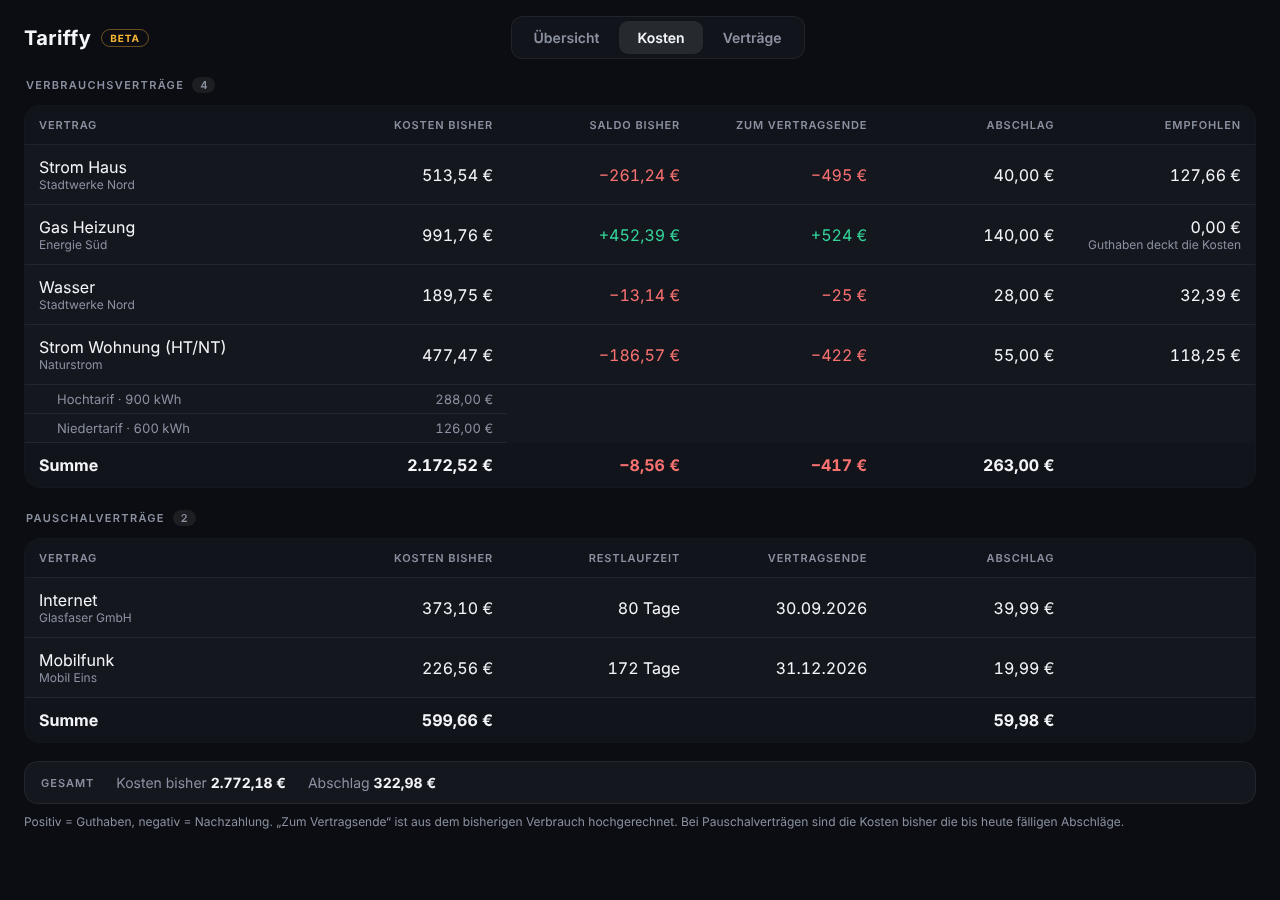
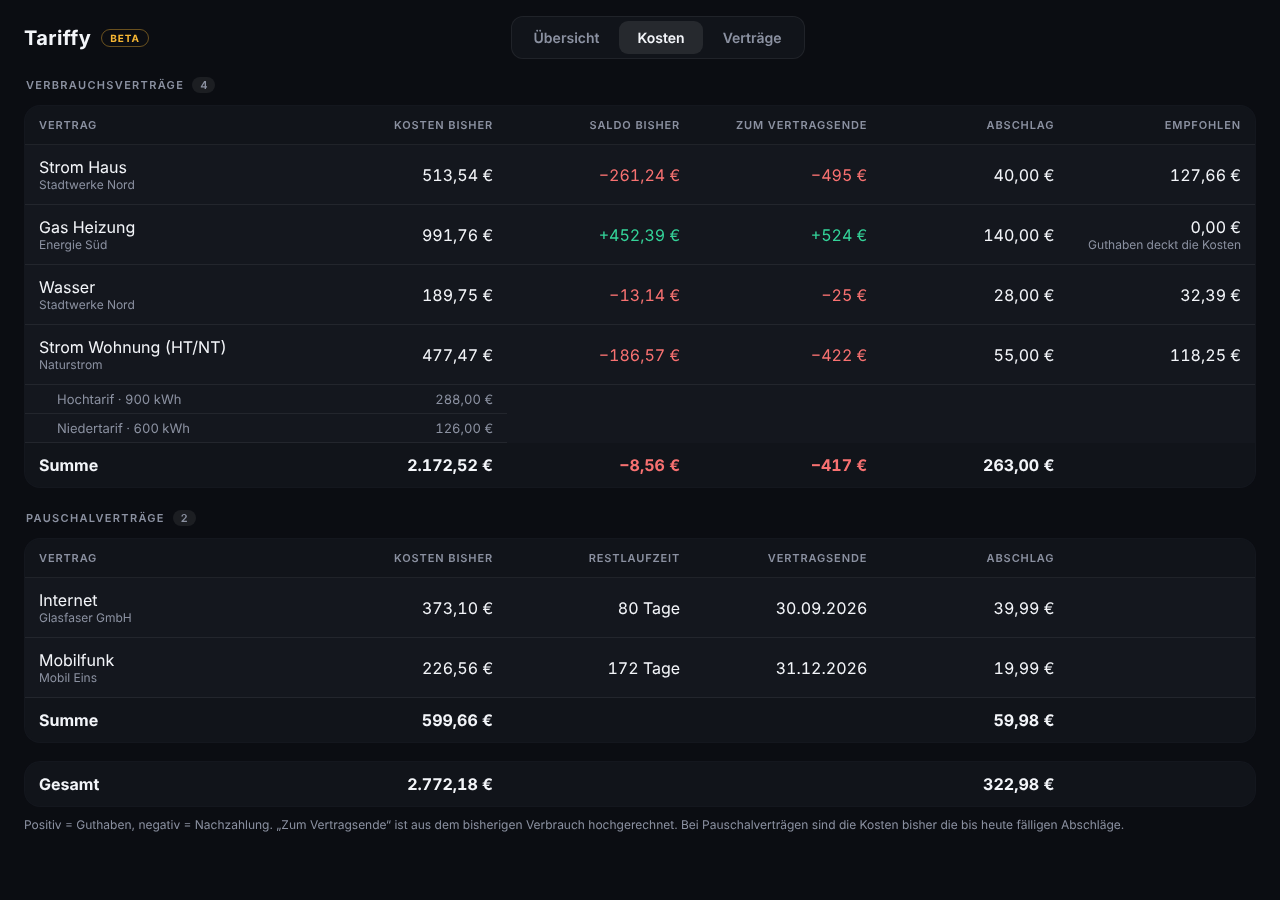
Panel: overall total as a row of the cost table grid
Claude-Session: https://claude.ai/code/session_011wNPKqgRVqpMfNb2Np7XaH

Changed region(s): [[0.0312, 0.84, 0.875, 0.9333], [0.1562, 0.84, 0.2188, 0.8711]]

diff --git a/custom_components/tariffy/frontend/tariffy-panel.js b/custom_components/tariffy/frontend/tariffy-panel.js
@@ -168,6 +168,8 @@ const I18N = {
 const SVG_NS = "http://www.w3.org/2000/svg";
 const TABS = ["overview", "costs", "contracts"];
 // contracts that are billed by consumption; everything else (internet, mobile, ...) is a flat rate
+// column widths shared by the cost tables, so that their columns line up
+const GRID = ["24%", "15.2%", "15.2%", "15.2%", "15.2%", "15.2%"];
 const METERED = new Set(["electricity", "electricity_ht_nt", "gas", "water"]);
 const TAB_KEY = "tariffy-panel-tab";
 
@@ -252,9 +254,9 @@ const STYLE = `
 .group:first-of-type { margin-top: 0; }
 .group-title { display: flex; align-items: center; gap: 8px; margin: 0 0 12px 2px; font-size: 11px; font-weight: 600;
   letter-spacing: .12em; text-transform: uppercase; color: var(--muted); }
-.grand { display: flex; flex-wrap: wrap; align-items: center; gap: 6px 22px; margin-top: 18px; padding: 12px 16px; border-radius: 14px;
-  background: var(--panel); border: 1px solid var(--line); font-size: 14px; color: var(--muted); }
-.grand b { color: var(--text); font-variant-numeric: tabular-nums; }
+/* the overall total is a row of its own in the same column grid as the tables above */
+.grand-table { margin-top: 18px; table-layout: fixed; }
+.grand-table td { font-weight: 700; border-bottom: 0; background: var(--panel2); }
 .group-title .count { font-size: 11px; letter-spacing: 0; padding: 1px 8px; border-radius: 999px; background: rgba(255,255,255,.07); }
 .grid { display: grid; grid-template-columns: repeat(auto-fill, minmax(360px, 1fr)); gap: 16px; align-items: stretch; }
 .grid.flat { grid-template-columns: repeat(auto-fill, minmax(300px, 1fr)); }
@@ -425,7 +427,7 @@ details[open] summary .caret svg { transform: rotate(90deg); }
   .big { font-size: 28px; }
   .ring, .ring svg { width: 76px; height: 76px; }
   table, thead, tbody, tr, td { display: block; }
-  colgroup { display: none; }
+  colgroup, td:empty { display: none; }
   thead { display: none; }
   table { background: transparent; border: 0; border-radius: 0; }
   tr { background: var(--panel); border: 1px solid var(--line); border-radius: 14px; margin-bottom: 10px; padding: 8px 14px; }
@@ -1504,7 +1506,7 @@ class TariffyPanel extends HTMLElement {
       h("h3", { class: "group-title" }, h("span", { text: this._t(key) }), h("span", { class: "count", text: String(list.length) })),
       h("table", {},
         // both tables share one column grid (the 6th column is empty in the flat-rate table)
-        h("colgroup", {}, ["24%", "15.2%", "15.2%", "15.2%", "15.2%", "15.2%"].map((width) => h("col", { style: `width:${width}` }))),
+        h("colgroup", {}, GRID.map((width) => h("col", { style: `width:${width}` }))),
         h("thead", {}, h("tr", {}, heads.map((label) => h("th", { text: label })))),
         h("tbody", {}, rows))) : null);
 
@@ -1517,10 +1519,14 @@ class TariffyPanel extends HTMLElement {
       group("groupFlat", flat, [
         this._t("colContract"), this._t("colCost"), this._t("remaining"), this._t("contractEnd"), this._t("colInstalment"), "",
       ], flatRows),
-      h("div", { class: "grand" },
-        h("span", { class: "label", text: this._t("grandTotal") }),
-        h("span", {}, `${this._t("colCost")} `, h("b", { text: money(sumCost(contracts)) })),
-        h("span", {}, `${this._t("colInstalment")} `, h("b", { text: money(sum(contracts, "abschlag")) }))),
+      h("table", { class: "grand-table" },
+        h("colgroup", {}, GRID.map((width) => h("col", { style: `width:${width}` }))),
+        h("tbody", {}, h("tr", { class: "grandrow" },
+          h("td", { text: this._t("grandTotal") }),
+          cell(this._t("colCost"), money(sumCost(contracts))),
+          h("td", { text: "" }), h("td", { text: "" }),
+          cell(this._t("colInstalment"), money(sum(contracts, "abschlag"))),
+          h("td", { text: "" })))),
       h("div", { class: "hint", text: this._t("costsHint") })
     );
   }

diff --git a/custom_components/tariffy/CHANGELOG.md b/custom_components/tariffy/CHANGELOG.md
@@ -14,7 +14,7 @@ Zweiter Release Candidate zum Testen des Seitenleisten-Panels. Das Panel nutzt d
 ### Changed
 
 - Die Kopfzeile der Übersicht hat vier Kacheln mit Details: die Abschläge pro Monat (mit Jahreswert und einem Balken, der Verbrauchs- und Pauschalverträge aufteilt), die Kosten bisher (mit den bis heute fälligen Abschlägen und dem Saldo), die Prognose zum Vertragsende (je Vertrag, die schlechteste zuerst) und die nächsten drei Termine.
-- Die beiden Tabellen der Ansicht "Kosten" haben dasselbe Spaltenraster: "Kosten bisher" und "Abschlag" stehen untereinander (Pauschal-Tabelle: Kosten bisher, Restlaufzeit, Vertragsende, Abschlag).
+- Die beiden Tabellen der Ansicht "Kosten" und die Gesamtzeile haben dasselbe Spaltenraster: "Kosten bisher" und "Abschlag" stehen untereinander, auch in der Gesamtzeile (Pauschal-Tabelle: Kosten bisher, Restlaufzeit, Vertragsende, Abschlag).
 - Das Panel nutzt die ganze Breite des Fensters, statt bei 1280 px abgeschnitten und zentriert zu sein (die Grenze liegt jetzt bei 2400 px, nur für Ultrabreit-Monitore). Die Übersicht behält drei Verträge pro Zeile und bekommt bei einem sehr breiten Fenster (ab 1750 px) eine vierte Spalte.
 
 ## [1.27.0-rc.1] - 2026-11-06

diff --git a/CHANGELOG.md b/CHANGELOG.md
@@ -14,7 +14,7 @@ Second release candidate for testing the sidebar panel. The panel uses the whole
 ### Changed
 
 - The header of the overview has four tiles with details: the instalments per month (with the yearly figure and a bar that splits metered and flat-rate contracts), the cost so far (with the instalments due until today and the balance), the forecast at contract end (per contract, worst first) and the next three dates.
-- The two tables of the "Costs" view share one column grid: "cost so far" and "instalment" sit exactly below each other (flat-rate table: cost so far, remaining term, contract end, instalment).
+- The two tables of the "Costs" view and the overall total share one column grid: "cost so far" and "instalment" sit exactly below each other, also in the overall total row (flat-rate table: cost so far, remaining term, contract end, instalment).
 - The panel uses the whole width of the window instead of being capped at 1280 px and centred (the cap is now 2400 px, only for ultra-wide monitors). The overview keeps three contracts per row and gets a fourth column on a very wide window (1750 px and more).
 
 ## [1.27.0-rc.1] - 2026-11-06
